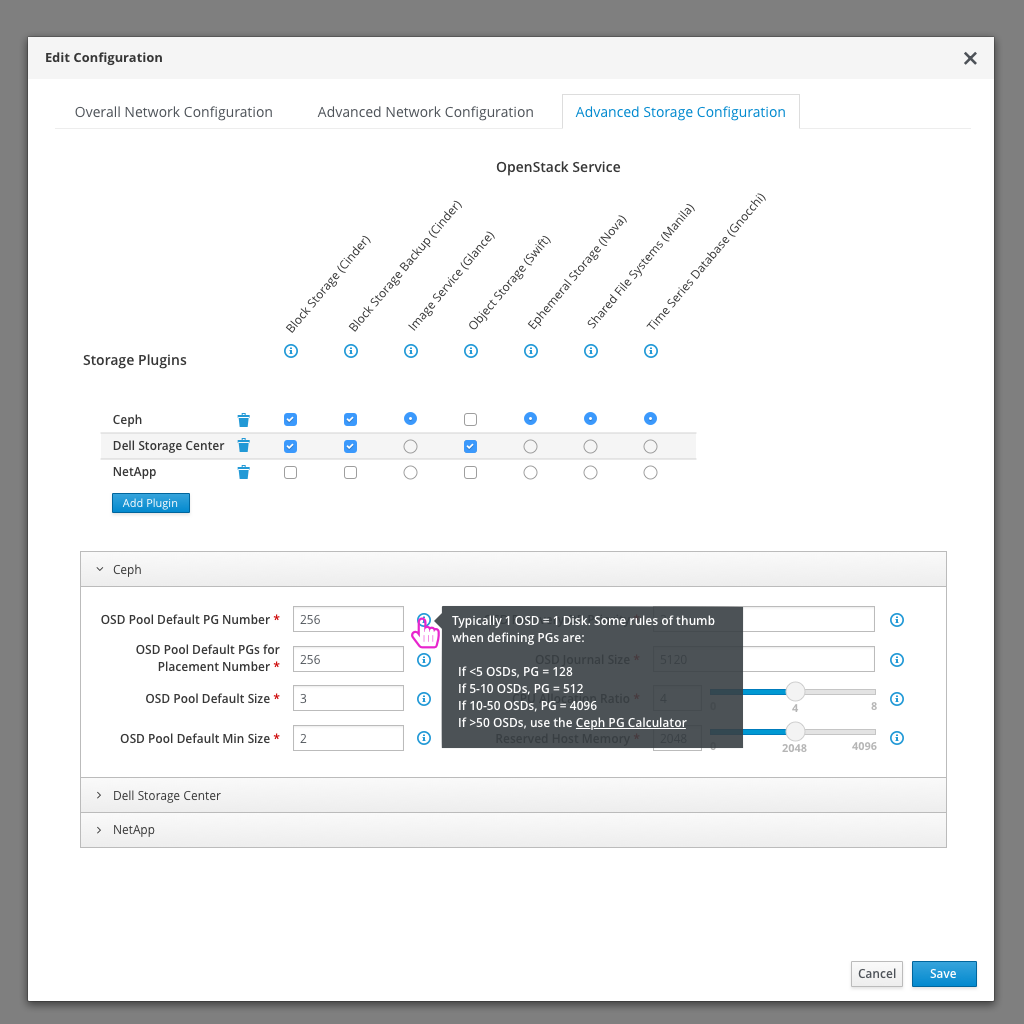
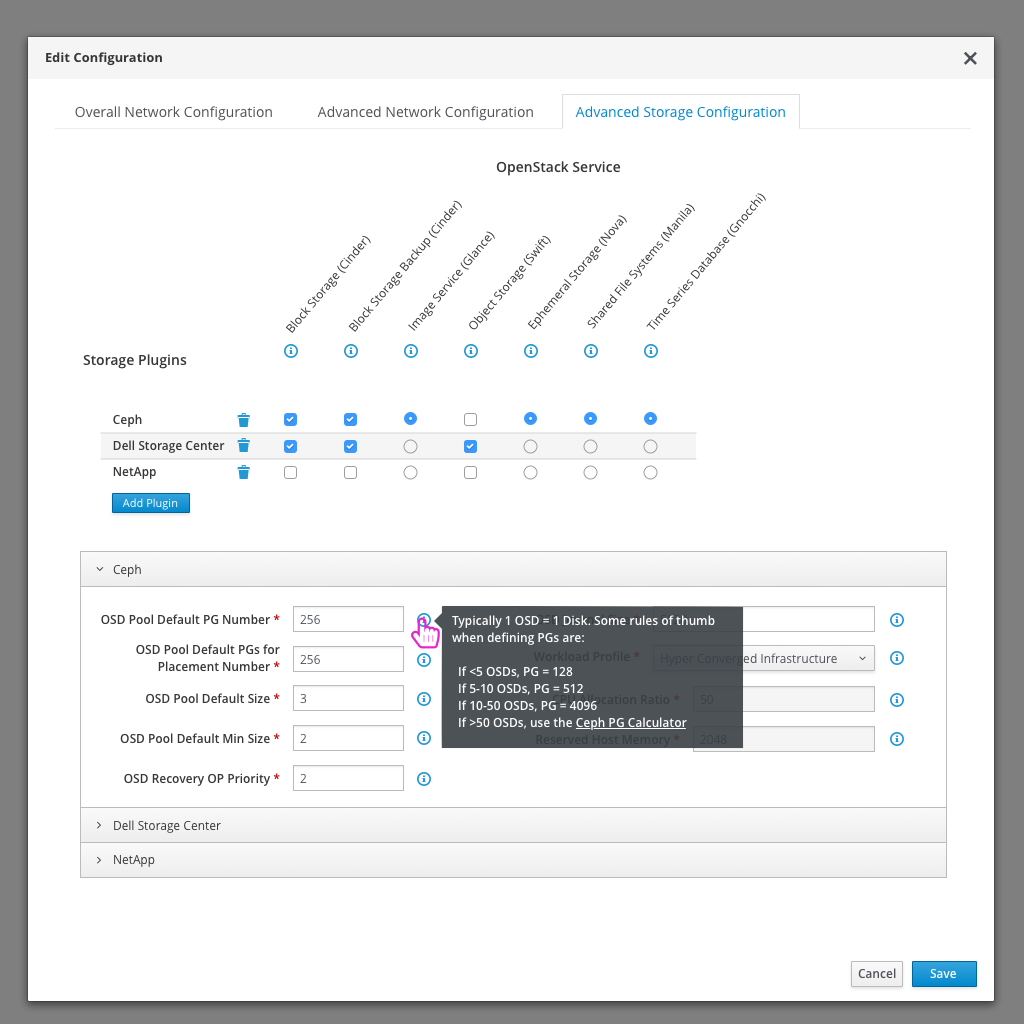
Updating Storage popular use cases
Includes Third Party Plugin selection/configuration
Includes Ceph Storage Tuning with derived parameters

Changed region(s): [[0.7188, 0.625, 0.875, 0.7188], [0.0938, 0.75, 0.2812, 0.8438], [0.4062, 0.75, 0.4375, 0.7812]]

diff --git a/tripleo-ui/5-popular-use-cases/7.CephLayoutTuning.md b/tripleo-ui/5-popular-use-cases/7.CephLayoutTuning.md
@@ -17,11 +17,15 @@ Today, the user needs to select to use Ceph at a high level configuration, and t
 ![editconfigurationmodal](img/Ceph-Storage-Edit_Configuration_Modal.png)
 - The modal will open to the Overall Network Configuration tab, but the user can quickly choose to view the Advanced Storage Configuration tab to choose and configure their Ceph storage.
 
-![editconfigurationmodal2](img/Ceph-Storage-Configure_Storage2.png)
-- In this section of the modal, the user can add ceph storage to their deployment. The specific ceph tuning options will be available in the the accordion section below.
-
 ![editconfiguration](img/Ceph-Storage-Configure_Storage.png)
+- In this section of the modal, the user can add ceph storage to their deployment. The specific ceph tuning options will be available in the the accordion section below.
 - Some parameters have additional information that could be helpful to the end user. Hovering over the information icon will expose this info in a tooltip.
+
+![editconfigurationmodal2](img/Ceph-Storage-Configure_Storage2.png)
+- One piece of this configuration will rely on derived parameters where the user can select the "Workload Profile". This will have a default selection of Hyper Converged Infrastructure and the CPU Allocation Ratio and Reserved Host Memory will be set for the user. They can select from a number of these profiles or choose the "Custom..." option where they can define the values themselves.
+
+![editconfigurationmodal2](img/Ceph-Storage-Configure_Storage3.png)
+- After any changes have been made, the user can save this configuration.
 
 ![editconfiguration](img/Ceph-Storage-Deployment_Plan2.png)
 - Jumping over to the Nodes section, the user can view a list of nodes that have been registered.

diff --git a/tripleo-ui/5-popular-use-cases/6.ThirdPartyStorage.md b/tripleo-ui/5-popular-use-cases/6.ThirdPartyStorage.md
@@ -22,3 +22,6 @@ Today in the TripleO UI, the user needs to choose their high level Storage plugi
 
 ![editconfigurationmodal2](img/StoragePlugin-Storage-Configure_Storage.png)
 - In this section of the modal, the user can add or remove third party storage plugins that they wish to use in their OpenStack Deployment. Once a plugin is added, the user will have access to parameters for that plugin in the accordion section below.
+
+![editconfigurationmodal3](img/StoragePlugin-Storage-Configure_Storage2.png)
+- After making any edits to the configuration, the user can confirm these by clicking the Save button.
